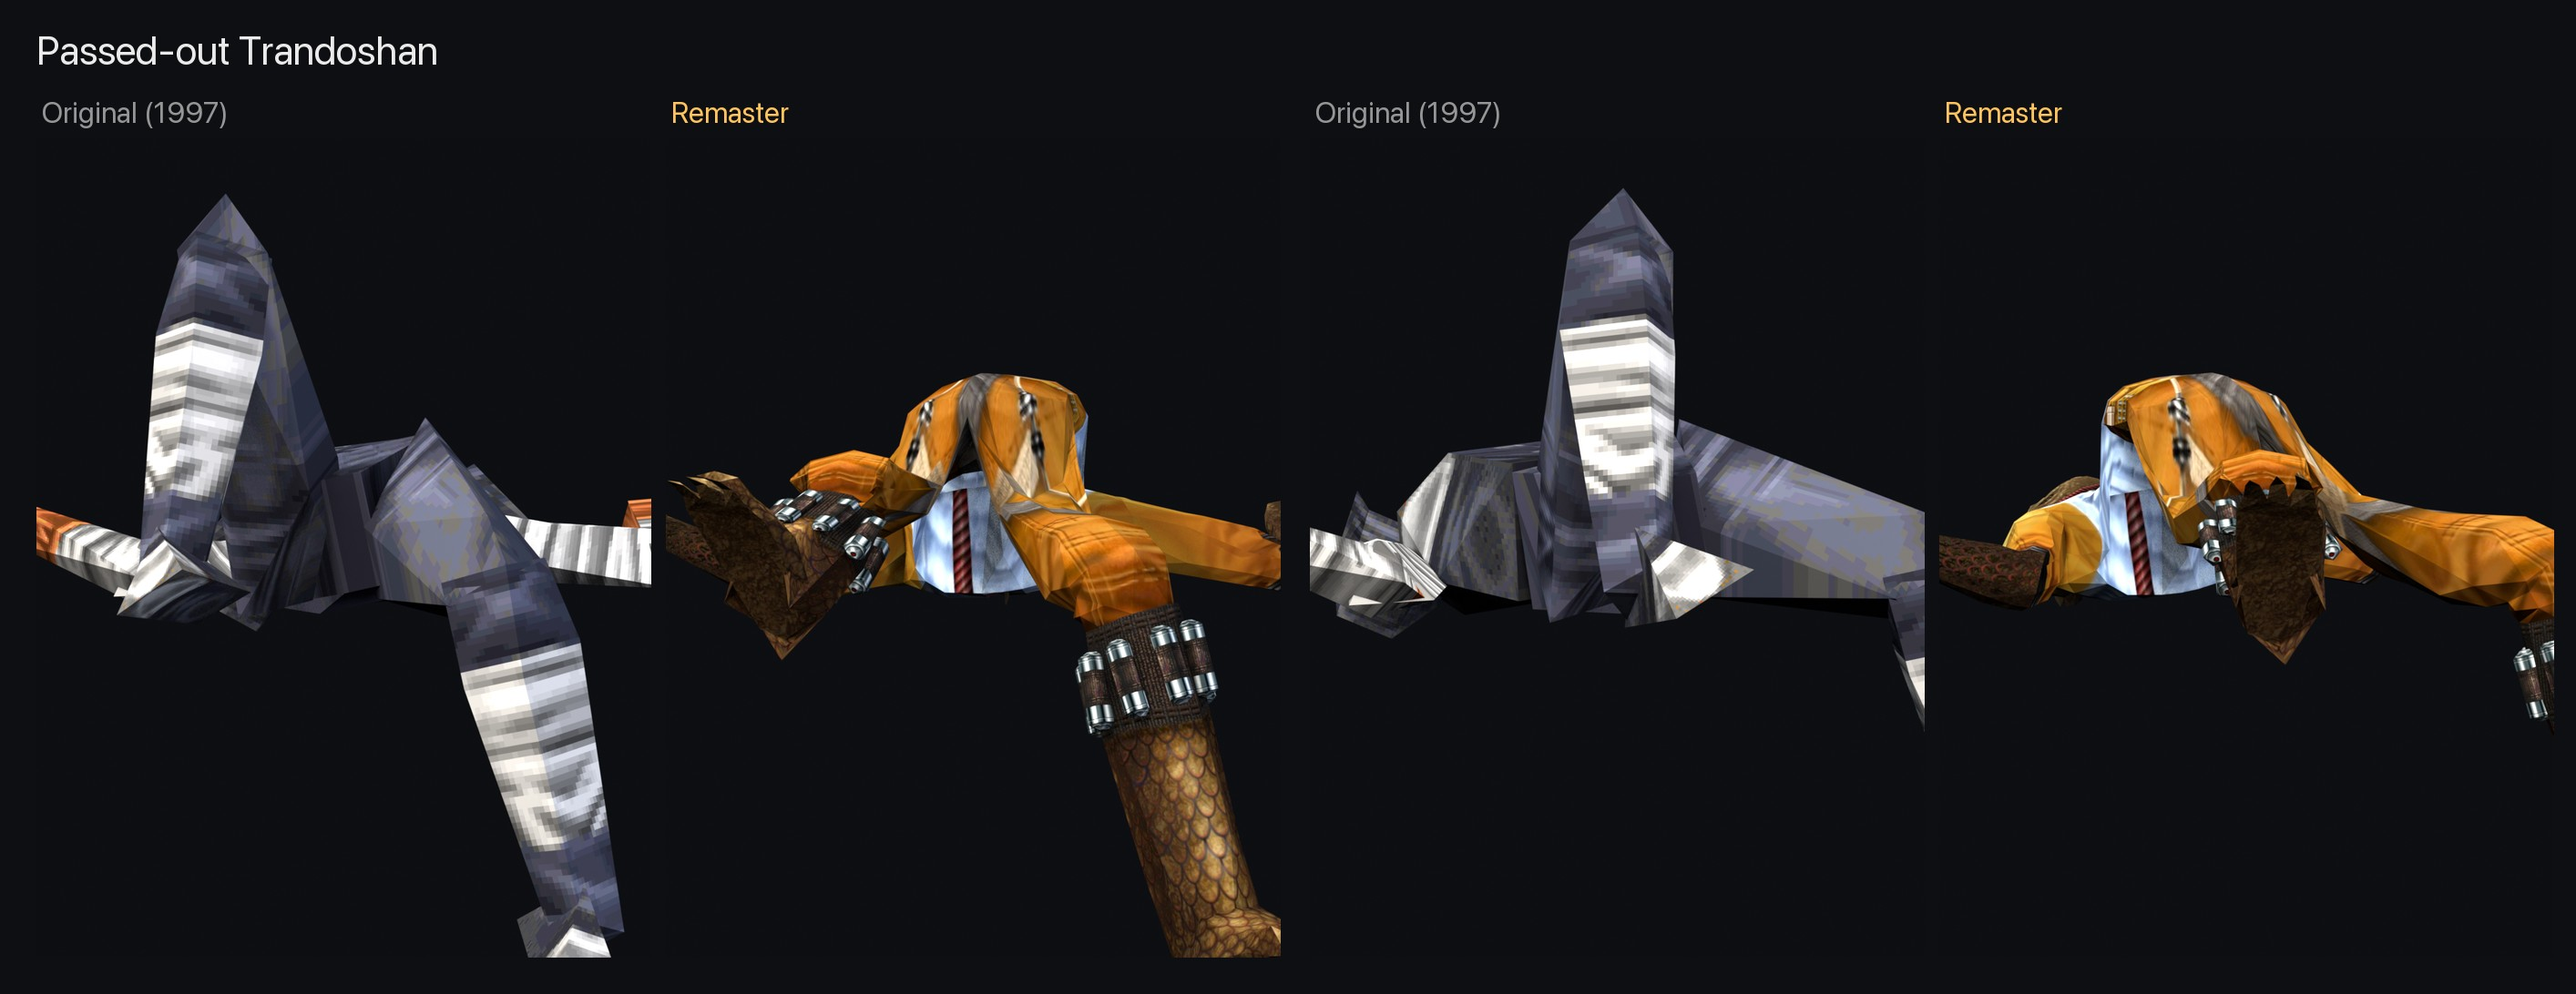
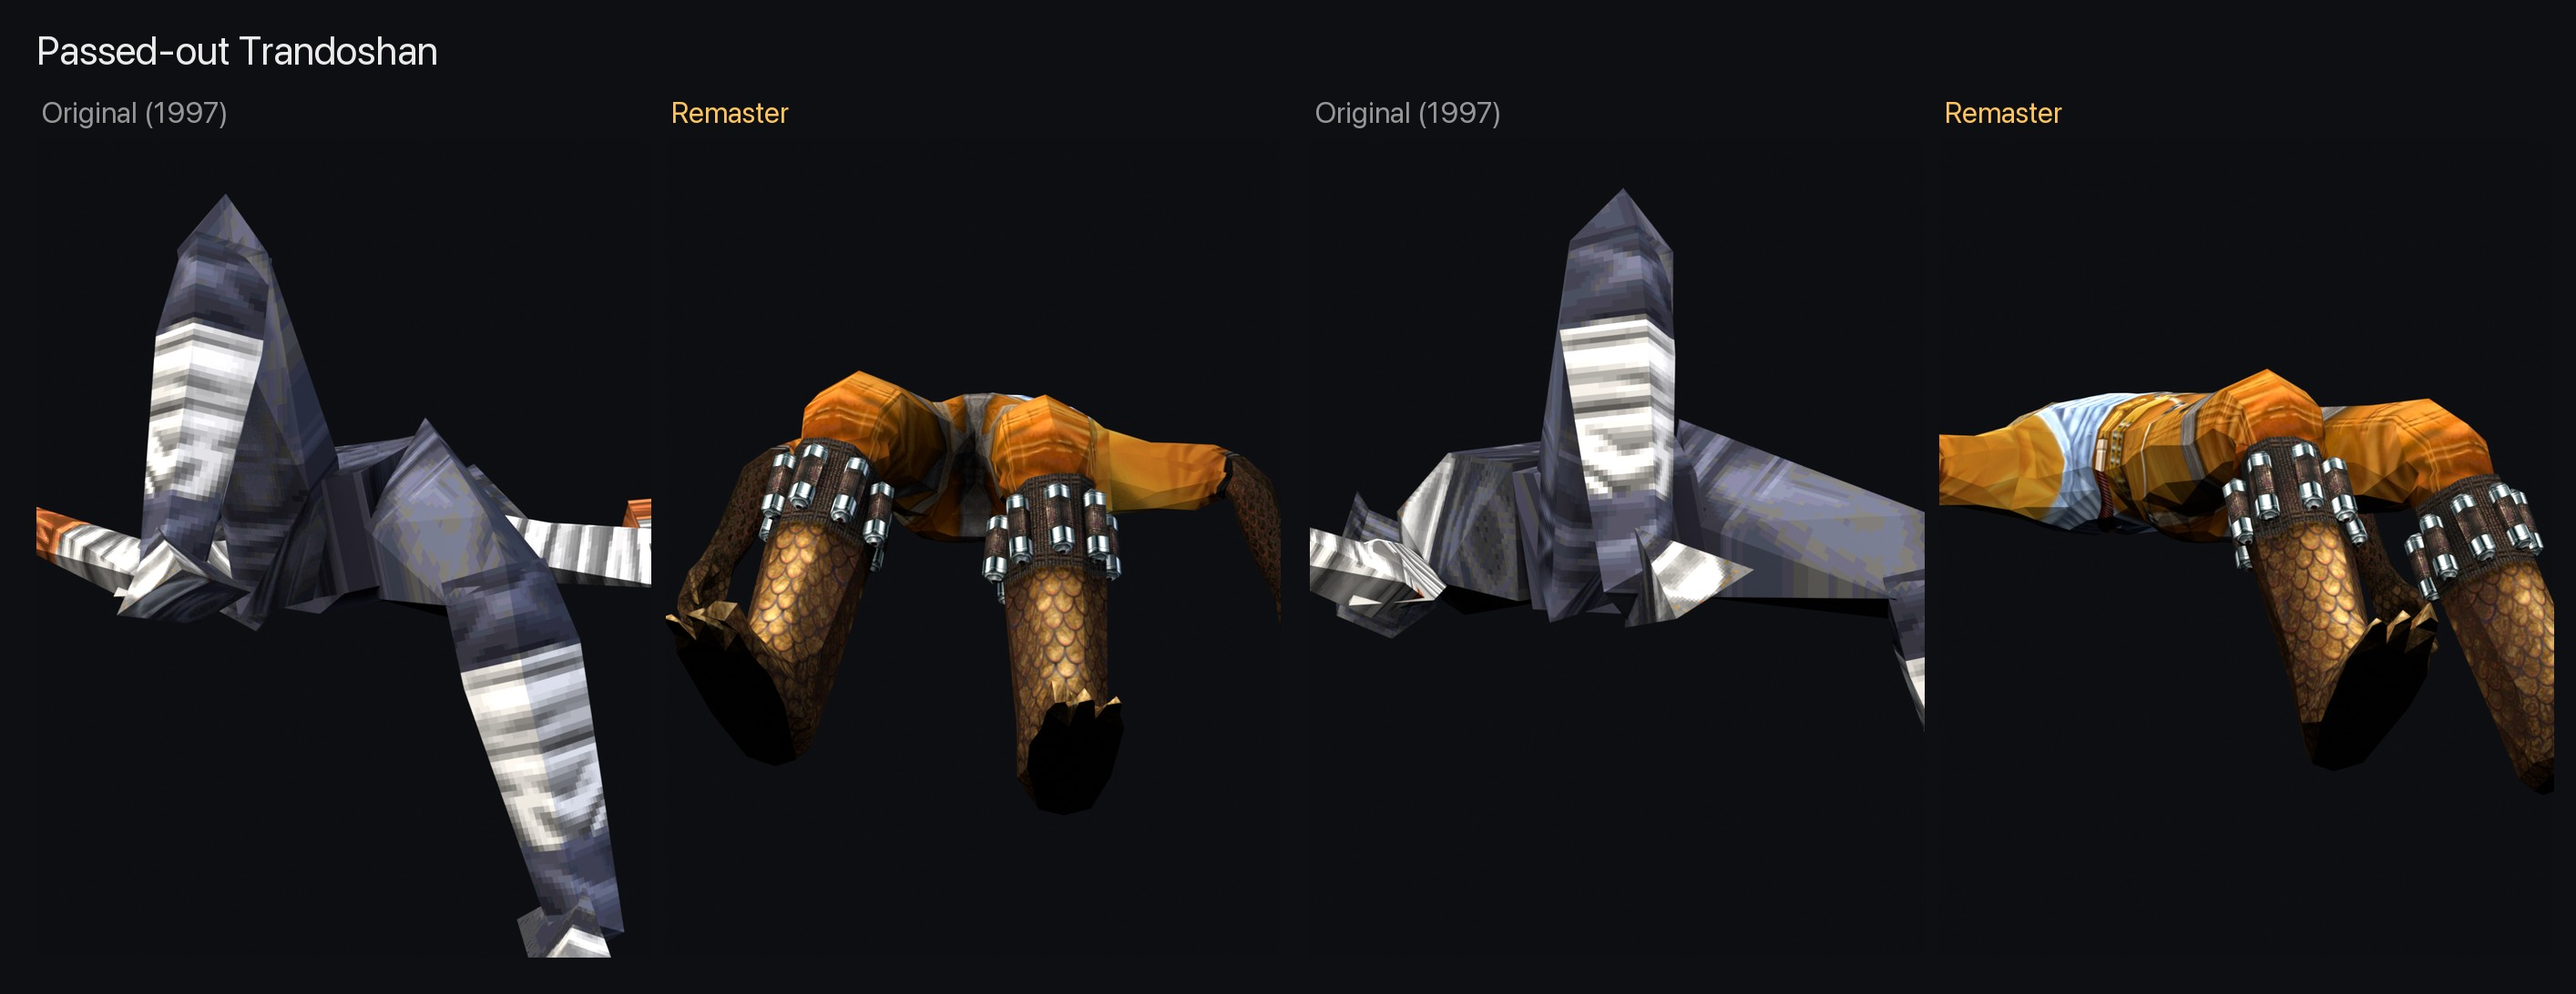
Cast: the bar drunk gets a natural passed-out pose (authored, not copied from the 1997 joints)

Changed region(s): [[0.2489, 0.3736, 0.4979, 0.9652], [0.7468, 0.3736, 0.9958, 0.7784]]

diff --git a/tools/blender/ja_to_jk.py b/tools/blender/ja_to_jk.py
@@ -142,6 +142,86 @@ def log(*a):
     print("JA2JK:", *a, flush=True)
 
 
+# --natural-lying: a passed-out pose authored here instead of copied from the JK model's joints.
+# Copying a crude 1997 pose joint for joint onto a detailed character twists it (the bar drunk).
+# Limb directions are in the standing frame (facing +Y, up +Z, right +X); the body is then laid on
+# its back (forward turns to up) and placed where the JK model lies, back on the table.
+NATURAL_LYING = [
+    # Upper arms flopped out flat, forearms hanging over the table's edge (standing -Y turns to
+    # down once he's laid on his back).
+    ("lhumerus", "lradius", (-0.90, 0.00, -0.42)),
+    ("lradius", "lhand", (-0.35, -0.85, -0.25)),
+    ("rhumerus", "rradius", (0.85, 0.05, -0.50)),
+    ("rradius", "rhand", (0.30, -0.75, -0.55)),
+    # Thighs flat and a little apart, calves dangling off the end of the table.
+    ("lfemurYZ", "ltibia", (-0.12, 0.00, -1.0)),
+    ("ltibia", "ltalus", (-0.05, -0.85, -0.50)),
+    ("rfemurYZ", "rtibia", (0.15, 0.10, -1.0)),
+    ("rtibia", "rtalus", (0.10, -0.80, -0.60)),
+]
+
+
+def natural_lying(arm, rest, jk, roles, joint):
+    import numpy as np
+    A = arm.matrix_world
+    Ainv = A.inverted()
+    for pb in arm.pose.bones:
+        pb.matrix_basis = Matrix.Identity(4)
+    bpy.context.view_layer.update()
+    W = lambda b: A @ arm.pose.bones[b].head
+    for bone, child, d in NATURAL_LYING:
+        if bone not in arm.pose.bones or child not in arm.pose.bones:
+            continue
+        pb = arm.pose.bones[bone]
+        cur = (W(child) - W(bone)).normalized()
+        R = cur.rotation_difference(Vector(d).normalized()).to_matrix().to_4x4()
+        h = W(bone)
+        pb.matrix = Ainv @ Matrix.Translation(h) @ R @ Matrix.Translation(-h) @ A @ pb.matrix
+        bpy.context.view_layer.update()
+    if "cranium" in arm.pose.bones:   # head lolled to one side and a little back
+        pb = arm.pose.bones["cranium"]
+        h = W("cranium")
+        R = (Matrix.Rotation(math.radians(35), 4, "Z") @ Matrix.Rotation(math.radians(-12), 4, "X"))
+        pb.matrix = Ainv @ Matrix.Translation(h) @ R @ Matrix.Translation(-h) @ A @ pb.matrix
+        bpy.context.view_layer.update()
+    bpy.ops.object.mode_set(mode="OBJECT")
+    # Lay him on his back: forward (+Y) turns to up, head (+Z) to -Y; then turn him to lie the way
+    # the JK model does (hips to head), hips over the JK hips, back on the table.
+    pelvis = W("pelvis")
+    jk_dir = Vector((joint["head"] - joint["hip"]).to_2d()).normalized()
+    yaw = math.atan2(jk_dir.y, jk_dir.x) - math.atan2(-1.0, 0.0)
+    T = Matrix.Rotation(yaw, 4, "Z") @ Matrix.Rotation(math.radians(90), 4, "X") @ Matrix.Translation(-pelvis)
+    tops = [o for o in bpy.data.objects if o.parent is None]
+    for o in tops:
+        o.matrix_world = T @ o.matrix_world
+    bpy.context.view_layer.update()
+    # The table: the lowest point of the JK model's torso and hips.
+    zs = []
+    for k, me in enumerate(jk.geosets[0]):
+        ns = [i for i, nd in enumerate(jk.nodes) if nd.mesh == k and nd.name.lower() in ("torso", "hips")]
+        if ns:
+            zs += [(rest[ns[0]] @ [v[0], v[1], v[2], 1])[2] for v in me.verts]
+    table = min(zs) if zs else joint["hip"].z
+    dg = bpy.context.evaluated_depsgraph_get()
+    back = []
+    for o in visible_lod0():
+        oe = o.evaluated_get(dg)
+        me = oe.to_mesh()
+        for v in me.vertices:
+            p = oe.matrix_world @ v.co
+            if p.to_2d().length < 0.05:   # under the torso and hips, not the limbs
+                back.append(p.z)
+        oe.to_mesh_clear()
+    lift = table - (min(back) if back else 0.0)
+    T2 = Matrix.Translation((joint["hip"].x, joint["hip"].y, lift))
+    for o in tops:
+        o.matrix_world = T2 @ o.matrix_world
+    bpy.context.view_layer.update()
+    bpy.context.view_layer.objects.active = arm
+    bpy.ops.object.mode_set(mode="POSE")
+    log("natural lying pose: back on the table at z %.3f, turned %.0f degrees" % (table, math.degrees(yaw)))
+
+
 def visible_lod0():
     root0 = bpy.data.objects.get("model_root_0")
     return [o for o in root0.children_recursive
@@ -405,6 +485,9 @@ def main():
         log("head turned %.1f degrees back to face forward" % math.degrees((before.transposed() @ rest_rot).to_quaternion().angle))
     errs = {b: ((arm.matrix_world @ arm.pose.bones[b].head) - joint[n]).length for b, n, _ in snap if b in arm.pose.bones}
     log("max joint error after snapping: %.6f" % max(errs.values()), {b: round(e, 5) for b, e in errs.items() if e > 1e-4})
+
+    if "--natural-lying" in argv:
+        natural_lying(arm, rest, jk, roles, joint)
 
     bpy.ops.object.mode_set(mode="OBJECT")
 

diff --git a/tools/convert_cast.py b/tools/convert_cast.py
@@ -48,8 +48,8 @@ CAST = {
     # A 5th field sizes the character from a standing JK model (the lying one is only as tall as
     # it is thick).
     # A 6th field: extra arguments for the converter (the drunk lies flatter than his 1997 pose).
-    "thout":  ("trandoshan", "default", "Passed-out Trandoshan", "thout", "th", ["--flatten", "0.25", "--squash", "0.6"]),
-    "thoutw": ("weequay", "default", "Passed-out Weequay", "thout", "th", ["--flatten", "0.25", "--squash", "0.6"]),
+    "thout":  ("trandoshan", "default", "Passed-out Trandoshan", "thout", "th", ["--natural-lying"]),
+    "thoutw": ("weequay", "default", "Passed-out Weequay", "thout", "th", ["--natural-lying"]),
 }
 
 

diff --git a/docs/DECISIONS.md b/docs/DECISIONS.md
@@ -681,3 +681,4 @@ Dom approved docs/stage2-atmosphere-plan.md. Branch `stage2-atmosphere`.
   - Facing: a shoulder or hip line plus a base point can't tell chest from back on a flat body. Hips and torso are now turned to face where the JK nodes face (their rest rotation applied to the model's forward, +Y); the Jedi Academy model's rest facing comes from its own hips (up x (right - left)).
   - Head: the converter resets heads to upright and facing forward (right for standing JK models, whose head nodes carry no pose). For a lying model the head now takes the JK head node's facing and tilt, so it lolls back on the table instead of standing up off it.
   - Flatter: the drunk's raised right knee (0.04 above his hips in 1997) is lowered to a quarter (`--flatten 0.25`, joints above hip height only), and since the Jedi Academy Trandoshan is far bulkier than the 1997 slab (chest 0.058 deep vs 0.03), everything above hip height is squashed to 60 % (`--squash 0.6`, a static model, so only the vertices move). He now lies face up, low across the table (docs/screenshots/stage4-bar-drunk.jpg: start view and from above).
+- Dom: "can you not see the way his body is contorted?" Copying the crude 1997 pose joint for joint onto a detailed character twisted him at the waist, hooked an arm back and folded the legs. Replaced with `--natural-lying` (ja_to_jk.py): after the usual fit the pose is thrown away and authored in the converter (upper arms flopped out flat, forearms hanging over the table's edge, thighs flat and a little apart, calves dangling off the end, head lolled to one side), then the body is laid on its back, turned to lie the way the 1997 body does (hips to head) and placed with the hips over the 1997 hips and the back on the table (the 1997 torso's lowest point). The flatten/squash options stay in the converter but the drunk no longer uses them. Static prop only: the skin weights don't matter at rest.
